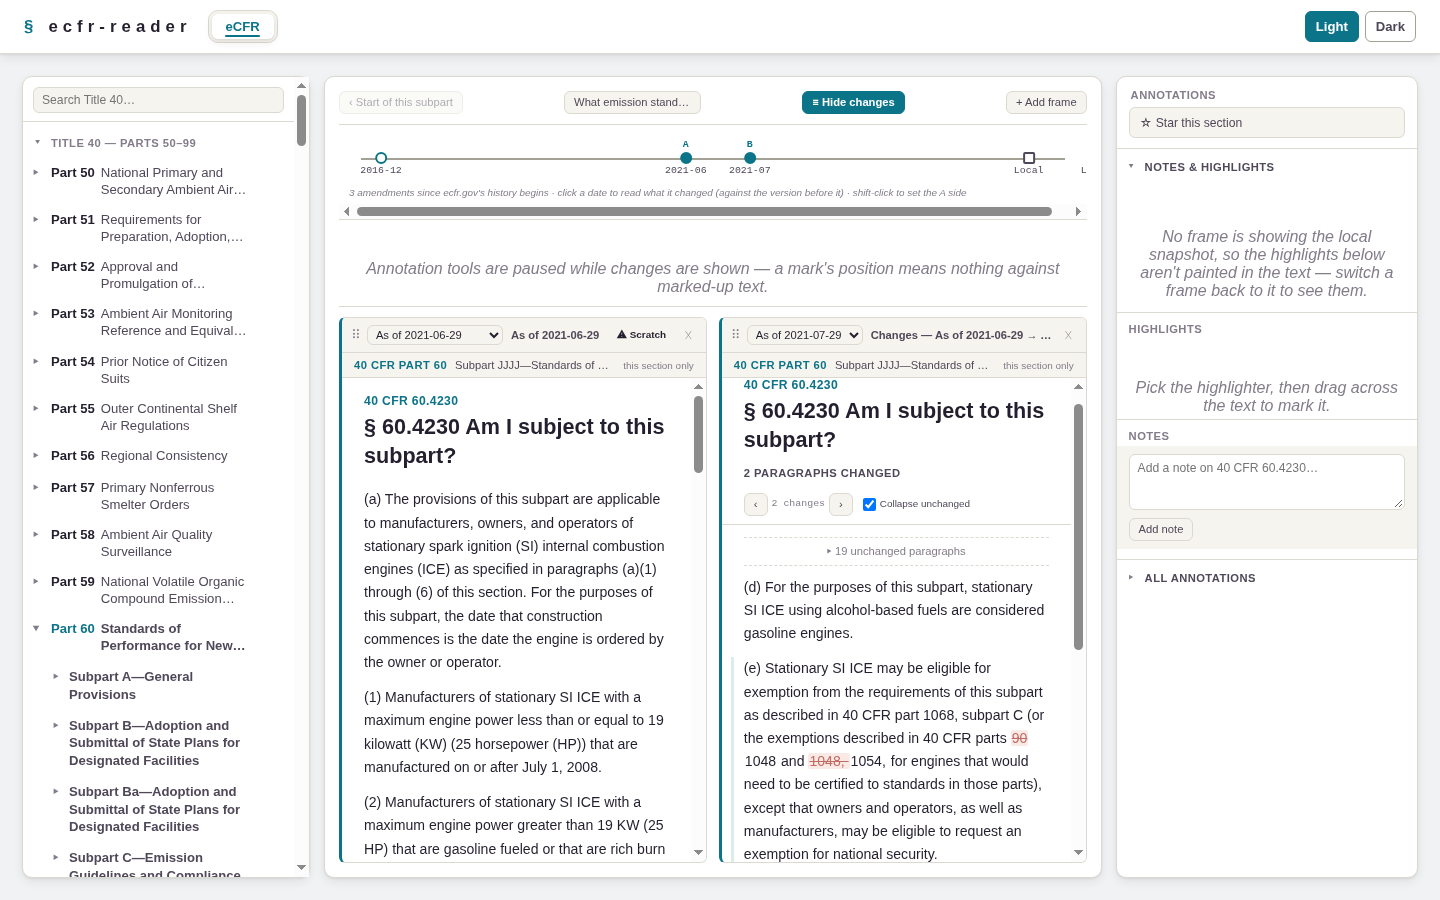
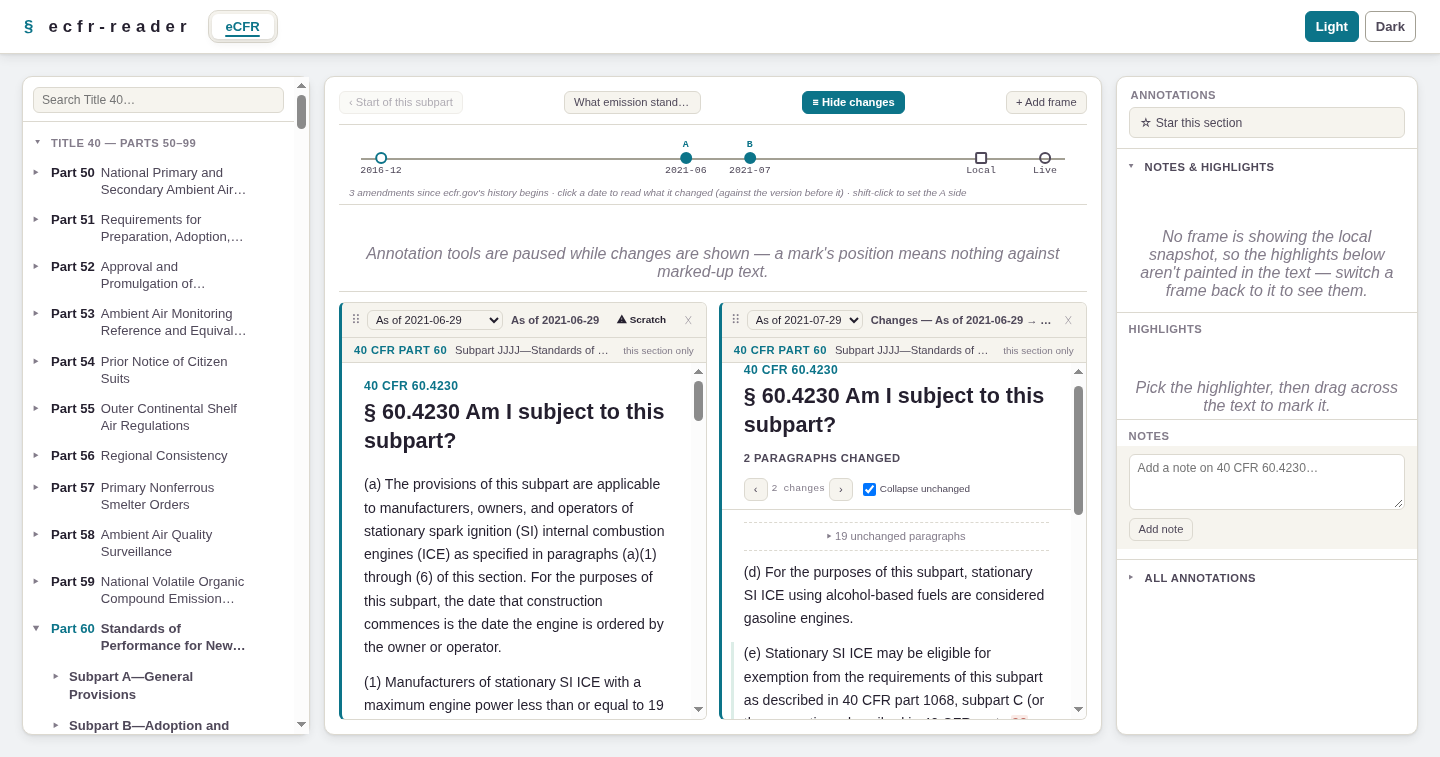
Timeline: the end tick stays on the rail when the spacing pass pushes it; README screenshot

Changed region(s): [[0.0, 0.0, 1.0, 0.9723], [0.7812, 0.4254, 0.9688, 0.7292], [0.8125, 0.7596, 0.875, 0.79]]

diff --git a/ecfr_reader/static/js/ecfr.js b/ecfr_reader/static/js/ecfr.js
@@ -475,7 +475,8 @@ function ecfrLayoutTimeline() {
     const inner = width - pad * 2;
     const xs = dates.map(d => pad + inner * (d - t0) / span);
     for (let i = 1; i < xs.length; i++) xs[i] = Math.max(xs[i], xs[i - 1] + ECFR_TICK_GAP);     // push right
-    for (let i = xs.length - 2; i >= 0; i--) xs[i] = Math.min(xs[i], xs[i + 1] - ECFR_TICK_GAP);  // pull the tail back in
+    xs[xs.length - 1] = Math.min(xs[xs.length - 1], width - pad);                               // the end stays on the rail…
+    for (let i = xs.length - 2; i >= 0; i--) xs[i] = Math.min(xs[i], xs[i + 1] - ECFR_TICK_GAP);  // …and the rest keep their gap
     const shift = Math.max(0, pad - xs[0]);
     ticks.forEach((t, i) => { t.style.left = `${(xs[i] + shift).toFixed(1)}px`; });
 }
